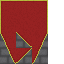
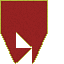
Started working on having multiple layers

Changed region(s): [[0.0, 0.5, 0.75, 1.0]]

diff --git a/platformer/src/main/java/com/mtgames/platformer/editor/Editor.java b/platformer/src/main/java/com/mtgames/platformer/editor/Editor.java
@@ -2,6 +2,7 @@ package com.mtgames.platformer.editor;
 
 import com.mtgames.platformer.Game;
 import com.mtgames.platformer.debug.Command;
+import com.mtgames.platformer.gfx.Font;
 import com.mtgames.platformer.gfx.gui.GUI;
 import com.mtgames.platformer.level.tiles.Tile;
 import com.sun.javafx.geom.Vec3f;
@@ -12,6 +13,7 @@ import static org.lwjgl.glfw.GLFW.*;
 public class Editor extends Game {
 
 	private static int tile = 3;
+	private static int layer = 0;
 
 	public static void main(String[] args) {
 		if (Integer.getInteger("com.mtgames.scale") != null) {
@@ -40,11 +42,28 @@ public class Editor extends Game {
 
 		if (!input.isPressed(GLFW_KEY_SPACE) && !paused) {
 			if (input.isPressed(GLFW_MOUSE_BUTTON_LEFT)) {
-				level.tiles[(mx + screen.xOffset >> 4) + (my + screen.yOffset >> 4) * level.width] = (byte) tile;
+				if (layer == 0) {
+					level.tiles0[(mx + screen.xOffset >> 4) + (my + screen.yOffset >> 4) * level.width] = (byte) tile;
+				}
+				if (layer == 1) {
+					level.tiles[(mx + screen.xOffset >> 4) + (my + screen.yOffset >> 4) * level.width] = (byte) tile;
+				}
 			}
 			if (input.isPressed(GLFW_MOUSE_BUTTON_RIGHT)) {
-				level.tiles[(mx + screen.xOffset >> 4) + (my + screen.yOffset >> 4) * level.width] = 1;
+				if (layer == 0) {
+					level.tiles0[(mx + screen.xOffset >> 4) + (my + screen.yOffset >> 4) * level.width] = 1;
+				}
+				if (layer == 1) {
+					level.tiles[(mx + screen.xOffset >> 4) + (my + screen.yOffset >> 4) * level.width] = 1;
+				}
 			}
+		}
+
+		if (input.isPressed(GLFW_KEY_1)) {
+			layer = 0;
+		}
+		if (input.isPressed(GLFW_KEY_2)) {
+			layer = 1;
 		}
 	}
 
@@ -57,6 +76,7 @@ public class Editor extends Game {
 		if (!paused && !input.isPressed(GLFW_KEY_SPACE)) {
 			Tile.tiles[tile].render(screen, mxBox << 4, myBox << 4);
 			screen.drawRectangle((mxBox << 4) - screen.xOffset, (myBox << 4) - screen.yOffset, (mxBox << 4) + 16 - screen.xOffset, (myBox << 4) + 16 - screen.yOffset, new Vec4f(1.0f, 1.0f, 1.0f, 0.3f));
+			GUI.add(() -> Font.render("Layer " + layer, screen, screen.width-56+screen.xOffset, screen.yOffset + 1));
 		}
 
 		if (!paused	&& input.isPressed(GLFW_KEY_SPACE)) {

diff --git a/platformer/src/main/java/com/mtgames/platformer/level/Level.java b/platformer/src/main/java/com/mtgames/platformer/level/Level.java
@@ -20,6 +20,7 @@ public class Level {
 	protected final List<LightSource> lightSources = new ArrayList<>();
 
 	public    byte[] tiles;
+	public    byte[] tiles0;
 	public    int    width;
 	protected int    height;
 
@@ -78,6 +79,7 @@ public class Level {
 
 		for (int y = (yOffset >> 4); y <= (yOffset + screen.height >> 4); y++) {
 			for (int x = (xOffset >> 4); x <= (xOffset + screen.width >> 4); x++) {
+				getTile0(x, y).render(screen, x << 4, y << 4);
 				getTile(x, y).render(screen, x << 4, y << 4);
 			}
 		}
@@ -105,6 +107,12 @@ public class Level {
 		if (x < 0 || x >= width || y < 0 || y >= height)
 			return Tile.VOID;
 		return Tile.tiles[tiles[x + y * width]];
+	}
+
+	public Tile getTile0(int x, int y) {
+		if (x < 0 || x >= width || y < 0 || y >= height)
+			return Tile.VOID;
+		return Tile.tiles[tiles0[x + y * width]];
 	}
 
 	public void addEntity(Entity entity) {
@@ -150,6 +158,7 @@ public class Level {
 			height = loader.getHeight();
 
 			tiles = loader.getTiles();
+			tiles0 = loader.getTiles0();
 		} catch (Exception e) {
 			e.printStackTrace();
 		}
@@ -159,6 +168,16 @@ public class Level {
 		this.width = width;
 		this.height = height;
 		tiles = new byte[width*height];
+
+		for (int i = 0; i < tiles.length; i++) {
+			tiles[i] = 1;
+		}
+
+		tiles0 = new byte[width*height];
+
+		for (int i = 0; i < tiles0.length; i++) {
+			tiles0[i] = 1;
+		}
 
 		if (this.entities.size() > 0) {
 			this.entities.clear();

diff --git a/platformer/src/main/java/com/mtgames/platformer/level/LevelLoader.java b/platformer/src/main/java/com/mtgames/platformer/level/LevelLoader.java
@@ -2,6 +2,7 @@ package com.mtgames.platformer.level;
 
 import com.mtgames.platformer.debug.Command;
 import com.mtgames.platformer.gfx.Background;
+import com.mtgames.utils.Debug;
 import com.mtgames.utils.JSP;
 import org.json.*;
 
@@ -10,6 +11,7 @@ public class LevelLoader {
 	private static int    width;
 	private static int    height;
 	private static byte[] tiles;
+	private static byte[] tiles0;
 
 	public LevelLoader(Level level, String path, boolean external) {
 
@@ -30,6 +32,17 @@ public class LevelLoader {
 		tiles = new byte[width*height];
 		for (int i = 0; i < tilesJSON.length(); i++) {
 			tiles[i] = (byte) tilesJSON.optInt(i);
+		}
+
+		tiles0 = new byte[width * height];
+		if (objTiles.has("tiles0")) {
+			JSONArray tiles0JSON = objTiles.getJSONArray("tiles0");
+
+			for (int i = 0; i < tiles0JSON.length(); i++) {
+				tiles0[i] = (byte) tiles0JSON.optInt(i);
+			}
+		} else {
+			Debug.log(path + " has no tiles0", Debug.DEBUG);
 		}
 
 		JSONObject objEntities = levelJSP.get("entities");
@@ -64,6 +77,10 @@ public class LevelLoader {
 
 	public byte[] getTiles() {
 		return tiles;
+	}
+
+	public byte[] getTiles0() {
+		return tiles0;
 	}
 
 	public int getWidth() {

diff --git a/platformer/src/main/java/com/mtgames/platformer/level/tiles/Tile.java b/platformer/src/main/java/com/mtgames/platformer/level/tiles/Tile.java
@@ -53,6 +53,9 @@ import com.mtgames.platformer.gfx.Screen;
 	//	PILLAR
 	public static final Tile PILLAR = new BaseTile(28, "pillar");
 
+	//	BLOCK
+	public static final Tile BLOCK = new BaseSolidTile(29, "block");
+
 	private final byte id;
 	boolean solid;
 

diff --git a/platformer/src/main/java/com/mtgames/platformer/editor/Level.java b/platformer/src/main/java/com/mtgames/platformer/editor/Level.java
@@ -49,6 +49,7 @@ public class Level extends com.mtgames.platformer.level.Level{
 			height = loader.getHeight();
 
 			tiles = loader.getTiles();
+			tiles0 = loader.getTiles0();
 		} catch (Exception e) {
 			e.printStackTrace();
 		}
